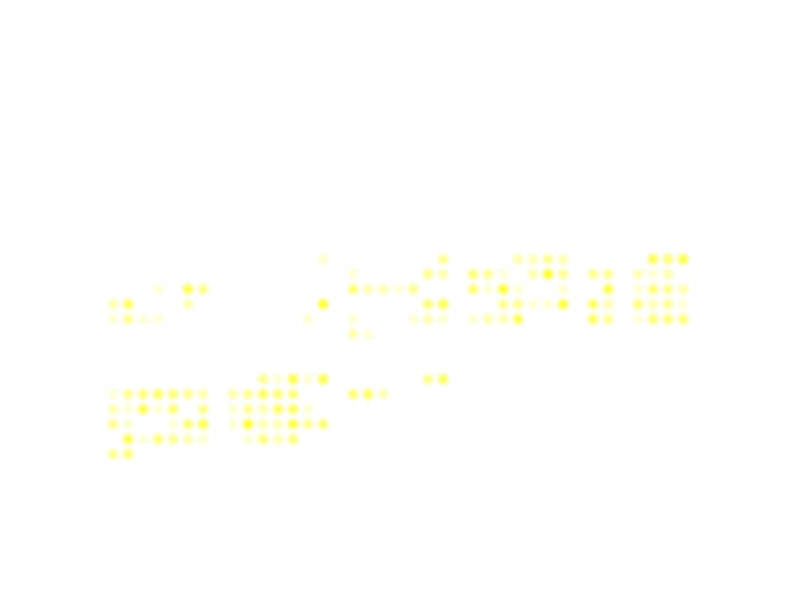
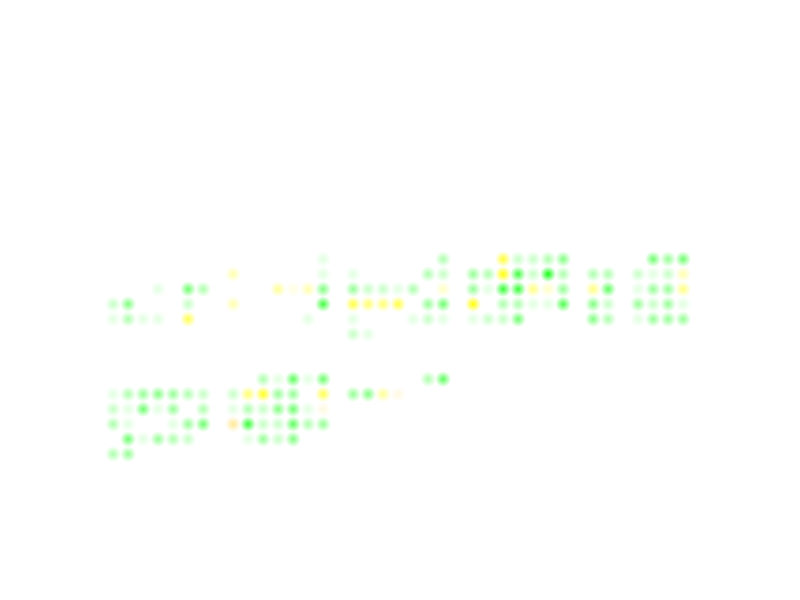
support multiple repos. displayed them in different colors

diff --git a/src/main/java/com/doomhowl/commitchart/domain/Repository.java b/src/main/java/com/doomhowl/commitchart/domain/Repository.java
@@ -5,49 +5,66 @@ import com.doomhowl.commitchart.utils.ShellProcess;
 import java.io.File;
 import java.nio.file.Path;
 import java.time.LocalDate;
-import java.util.ArrayList;
-import java.util.Arrays;
-import java.util.List;
-import java.util.Optional;
+import java.util.*;
 import java.util.stream.Stream;
 
 public class Repository implements GitStats {
-    private final File folder;
-    private final List<Commit> commits;
+    private final File mFolder;
+    private final List<Commit> mCommits;
 
     public Repository(String folder) {
-        this.folder = new File(folder);
-        Path gitDir = this.folder.toPath().resolve(".git");
-        if (!this.folder.isDirectory() || !this.folder.exists() || !gitDir.toFile().isDirectory()) {
-            throw new IllegalArgumentException("Not a valid git repo folder");
+        this(new File(folder));
+    }
+
+    public Repository(File folder) {
+        mFolder = folder;
+        Path gitDir = mFolder.toPath().resolve(".git");
+        Path branchesDir = mFolder.toPath().resolve("branches"); // bare repo
+        if (!mFolder.isDirectory() || !mFolder.exists() || (!gitDir.toFile().isDirectory() && !branchesDir.toFile().isDirectory())) {
+            throw new IllegalArgumentException(mFolder.getAbsolutePath() + " is not a valid git repo folder");
         }
-        this.commits = new ArrayList<>();
+        mCommits = new ArrayList<>();
     }
 
     public void open() {
-        ShellProcess git = new ShellProcess(folder.getAbsolutePath());
+        ShellProcess git = new ShellProcess(mFolder.getAbsolutePath());
         String log = git.runCommand("git", "log", "--pretty=format:%h %ad %an", "--date=iso");
         importFromLogOutput(log);
     }
 
+    public File getFolder() {
+        return mFolder;
+    }
+
     @Override
     public Stream<Commit> getCommits() {
-        return commits.stream();
+        return mCommits.stream();
     }
 
     @Override
     public Stream<Commit> getCommitsOfDate(LocalDate date) {
-        return commits.stream().filter(c -> c.date.equals(date));
+        return mCommits.stream().filter(c -> c.date.equals(date));
     }
 
     @Override
     public Stream<Commit> getCommitsBetween(LocalDate after, LocalDate before) {
-        return commits.stream().filter(c -> c.date.isAfter(after) && c.date.isBefore(before));
+        return mCommits.stream().filter(c -> c.date.isAfter(after) && c.date.isBefore(before));
     }
 
     private void importFromLogOutput(String log) {
         var parsedCommits =
                 Arrays.stream(log.split("(\\r\\n|\\r|\\n)")).map(Commit::fromLogLine).filter(Optional::isPresent).map(Optional::get);
-        commits.addAll(parsedCommits.toList());
+        mCommits.addAll(parsedCommits.toList());
+    }
+
+    @Override
+    public boolean equals(Object o) {
+        if (!(o instanceof Repository that)) return false;
+        return Objects.equals(mFolder, that.mFolder);
+    }
+
+    @Override
+    public int hashCode() {
+        return Objects.hashCode(mFolder);
     }
 }

diff --git a/src/main/java/com/doomhowl/commitchart/gfx/ChartImage.java b/src/main/java/com/doomhowl/commitchart/gfx/ChartImage.java
@@ -1,11 +1,15 @@
 package com.doomhowl.commitchart.gfx;
 
 import com.doomhowl.commitchart.domain.GitStats;
+import com.doomhowl.commitchart.domain.GitStatsGroup;
 
 import java.awt.*;
 import java.awt.image.BufferedImage;
 import java.awt.image.ImageObserver;
 import java.time.LocalDate;
+import java.util.HashMap;
+import java.util.Map;
+import java.util.Optional;
 
 public class ChartImage extends GfxUtils {
     private static final boolean DRAW_DEBUG = false;
@@ -21,13 +25,17 @@ public class ChartImage extends GfxUtils {
     private PointBrush mBrush;
     private Color mBgColor;
     private Color mFgColor;
+    private Palette mPalette;
+    private Map<GitStats, Color> mColors;
 
     public ChartImage(int width, int height, String caption) {
         mWidth = width;
         mHeight = height;
         mImg = new BufferedImage(width, height, BufferedImage.TYPE_INT_ARGB);
-        mBrush = new PointBrush(64, Color.YELLOW);
+        mBrush = new PointBrush(64);
         mCaption = caption;
+        mPalette = Palette.createDefault();
+        mColors = new HashMap<>();
 
         int e = 18;
         mBgColor = new Color(e, e, e);
@@ -171,13 +179,26 @@ public class ChartImage extends GfxUtils {
     private void drawContentCell(Rectangle region, LocalDate date) {
         region = padRect(region, -0.1f);
         long count = mStats.getCommitsOfDate(date).count();
-        double perc = easeOutCubic(count / (double) mTopDailyCommits);
+        double perc = 0;
+        if (mTopDailyCommits > 0) {
+            perc = easeOutCubic(count / (double) mTopDailyCommits);
+        }
 
-        BufferedImage brushImage = mBrush.getImage();
-        Composite comp = AlphaComposite.getInstance(AlphaComposite.SRC_OVER, (float) perc);
+        Color color = Color.YELLOW;
+        if (mStats instanceof GitStatsGroup group) {
+            Optional<GitStats> stats = group.getTopGitStatsOfDay(date);
+            if (stats.isPresent()) {
+                mColors.putIfAbsent(stats.get(), mPalette.nextColor());
+                color = mColors.get(stats.get());
+            }
+        }
+
+        BufferedImage brushImage = mBrush.getImage(color);
+        float alpha = (float) Math.min(1.f, Math.max(0.f, perc));
+        Composite comp = AlphaComposite.getInstance(AlphaComposite.SRC_OVER, alpha);
         g.setComposite(comp);
 
-        g.drawImage(mBrush.getImage(),
+        g.drawImage(mBrush.getImage(color),
                 region.x, region.y, region.x + region.width, region.y + region.height,
                 0, 0, brushImage.getWidth(), brushImage.getHeight(), null);
         g.setComposite(AlphaComposite.Src);

diff --git a/src/main/java/com/doomhowl/commitchart/gfx/PointBrush.java b/src/main/java/com/doomhowl/commitchart/gfx/PointBrush.java
@@ -1,27 +1,32 @@
 package com.doomhowl.commitchart.gfx;
 
-import javax.imageio.ImageIO;
 import java.awt.*;
 import java.awt.image.BufferedImage;
-import java.io.File;
-import java.io.IOException;
+import java.util.HashMap;
+import java.util.Map;
 
 public class PointBrush {
-    private BufferedImage mImage;
+    private final int mResolution;
+    private final Map<Color, BufferedImage> mColors;
 
-    public PointBrush(int resolution, Color color) {
-        mImage = new BufferedImage(resolution, resolution, BufferedImage.TYPE_INT_ARGB);
-        Graphics2D g = mImage.createGraphics();
+    public PointBrush(int resolution) {
+        mResolution = resolution;
+        mColors = new HashMap<>();
+    }
+
+    public BufferedImage render(Color color) {
+        BufferedImage image = new BufferedImage(mResolution, mResolution, BufferedImage.TYPE_INT_ARGB);
+        Graphics2D g = image.createGraphics();
         g.setComposite(AlphaComposite.Clear);
-        g.clearRect(0, 0, resolution, resolution);
+        g.clearRect(0, 0, mResolution, mResolution);
         g.setComposite(AlphaComposite.Src);
 
-        int centerX = resolution / 2;
-        int centerY = resolution / 2;
-        double maxDistance = distance(0, 0, resolution / 2, 0);
+        int centerX = mResolution / 2;
+        int centerY = mResolution / 2;
+        double maxDistance = distance(0, 0, mResolution / 2, 0);
 
-        for (int y = 0; y < resolution; ++y) {
-            for (int x = 0; x < resolution; ++x) {
+        for (int y = 0; y < mResolution; ++y) {
+            for (int x = 0; x < mResolution; ++x) {
                 double dis = distance(x, y, centerX, centerY);
                 int alpha = (int) Math.max(Math.min(255.0 - (dis / maxDistance * 255.0), 255), 0.0);
                 g.setColor(new Color(color.getRed(), color.getGreen(), color.getBlue(), alpha));
@@ -30,10 +35,17 @@ public class PointBrush {
         }
 
         g.dispose();
+        return image;
     }
 
-    public BufferedImage getImage() {
-        return mImage;
+    public BufferedImage getImage(Color color) {
+        if (!mColors.containsKey(color)) {
+            BufferedImage img = render(color);
+            mColors.put(color, img);
+            return img;
+        } else {
+            return mColors.get(color);
+        }
     }
 
     private static double distance(int x1, int y1, int x2, int y2) {

diff --git a/src/main/java/com/doomhowl/commitchart/domain/GitStatsGroup.java b/src/main/java/com/doomhowl/commitchart/domain/GitStatsGroup.java
@@ -1,0 +1,55 @@
+package com.doomhowl.commitchart.domain;
+
+import java.time.LocalDate;
+import java.util.ArrayList;
+import java.util.List;
+import java.util.Objects;
+import java.util.Optional;
+import java.util.stream.Stream;
+
+public class GitStatsGroup implements GitStats {
+    private final List<GitStats> mStatHolders;
+
+    public GitStatsGroup() {
+        mStatHolders = new ArrayList<>();
+    }
+
+    public void add(Repository repo) {
+        mStatHolders.add(repo);
+    }
+
+    @Override
+    public Stream<Commit> getCommits() {
+        return mStatHolders.stream().flatMap(GitStats::getCommits);
+    }
+
+    @Override
+    public Stream<Commit> getCommitsOfDate(LocalDate date) {
+        return mStatHolders.stream().flatMap(h -> h.getCommitsOfDate(date));
+    }
+
+    @Override
+    public Stream<Commit> getCommitsBetween(LocalDate after, LocalDate before) {
+        return mStatHolders.stream().flatMap(h -> h.getCommitsBetween(after, before));
+    }
+
+    @Override
+    public Stream<Commit> getCommitsOfYear(int year) {
+        return mStatHolders.stream().flatMap(h -> h.getCommitsOfYear(year));
+    }
+
+    public Optional<GitStats> getTopGitStatsOfDay(LocalDate date) {
+        return mStatHolders.stream().max((a, b) -> Long.compareUnsigned(a.getCommitsOfDate(date).count(), b.getCommitsOfDate(date).count()));
+    }
+
+    @Override
+    public boolean equals(Object o) {
+        if (!(o instanceof GitStatsGroup that)) return false;
+        return Objects.equals(mStatHolders, that.mStatHolders);
+    }
+
+    @Override
+    public int hashCode() {
+        return Objects.hashCode(mStatHolders);
+    }
+}

diff --git a/src/main/java/com/doomhowl/commitchart/CommitChartServer.java b/src/main/java/com/doomhowl/commitchart/CommitChartServer.java
@@ -1,6 +1,8 @@
 package com.doomhowl.commitchart;
 
+import com.doomhowl.commitchart.domain.GitStats;
 import com.doomhowl.commitchart.domain.Repository;
+import com.doomhowl.commitchart.domain.RepositoryGroup;
 import com.doomhowl.commitchart.gfx.ChartImage;
 
 import javax.imageio.ImageIO;
@@ -11,17 +13,17 @@ import java.io.IOException;
 
 public class CommitChartServer {
     public static void main(String[] args) throws IOException {
-        Repository repo = new Repository("C:\\dev\\spacetyper");
-        repo.open();
+        RepositoryGroup group = new RepositoryGroup("C:\\dev\\_dump");
+        group.open();
 
-        ChartImage lightChartImage = new ChartImage(800, 600, "git.doomhowl-interactive.com") //
+        ChartImage lightChartImage = new ChartImage(1280, 720, "git.doomhowl-interactive.com") //
                 .bgColor(new Color(0, 0, 0, 0)) //
                 .darkMode(false);
-        ImageIO.write(lightChartImage.draw(repo, 2025), "png", new File("light.png"));
+        ImageIO.write(lightChartImage.draw(group, 2025), "png", new File("light.png"));
 
         ChartImage darkChartImage = new ChartImage(800, 600, "git.doomhowl-interactive.com") //
                 .bgColor(new Color(0, 0, 0, 0)) //
                 .darkMode(true);
-        ImageIO.write(darkChartImage.draw(repo, 2025), "png", new File("dark.png"));
+        ImageIO.write(darkChartImage.draw(group, 2025), "png", new File("dark.png"));
     }
 }

diff --git a/src/main/java/com/doomhowl/commitchart/domain/RepositoryGroup.java b/src/main/java/com/doomhowl/commitchart/domain/RepositoryGroup.java
@@ -1,0 +1,35 @@
+package com.doomhowl.commitchart.domain;
+
+import java.io.File;
+
+public class RepositoryGroup extends GitStatsGroup {
+    private final File mFolder;
+
+    public RepositoryGroup(String folder) {
+        this(new File(folder));
+    }
+
+    public RepositoryGroup(File folder) {
+        if (!folder.isDirectory()) {
+            throw new IllegalArgumentException("Git repos parent dir must be a directory!");
+        }
+        mFolder = folder;
+    }
+
+    public void open() {
+        File[] children = mFolder.listFiles(File::isDirectory);
+        if (children != null) {
+            for (File child : children) {
+                // TODO: thread
+                Repository repo = new Repository(child);
+                try {
+                    repo.open();
+                } catch (Exception ex) {
+                    ex.printStackTrace();
+                    System.err.println("Error occurred while reading repo " + repo.getFolder() + ". It will not be used.");
+                }
+                add(repo);
+            }
+        }
+    }
+}

diff --git a/src/main/java/com/doomhowl/commitchart/gfx/Palette.java b/src/main/java/com/doomhowl/commitchart/gfx/Palette.java
@@ -1,0 +1,35 @@
+package com.doomhowl.commitchart.gfx;
+
+import java.awt.Color;
+import java.util.LinkedList;
+import java.util.Queue;
+
+public class Palette {
+
+    private final Queue<Color> mColors;
+
+    public Palette() {
+        mColors = new LinkedList<>();
+    }
+
+    public void add(Color color) {
+        mColors.add(color);
+    }
+
+    public Color nextColor() {
+        Color color =  mColors.remove();
+        mColors.add(color);
+        return color;
+    }
+
+    public static Palette createDefault() {
+        Palette pal = new Palette();
+        pal.add(Color.YELLOW);
+        pal.add(Color.ORANGE);
+        pal.add(Color.GREEN);
+        pal.add(Color.cyan);
+        pal.add(Color.white);
+        pal.add(Color.pink);
+        return pal;
+    }
+}
